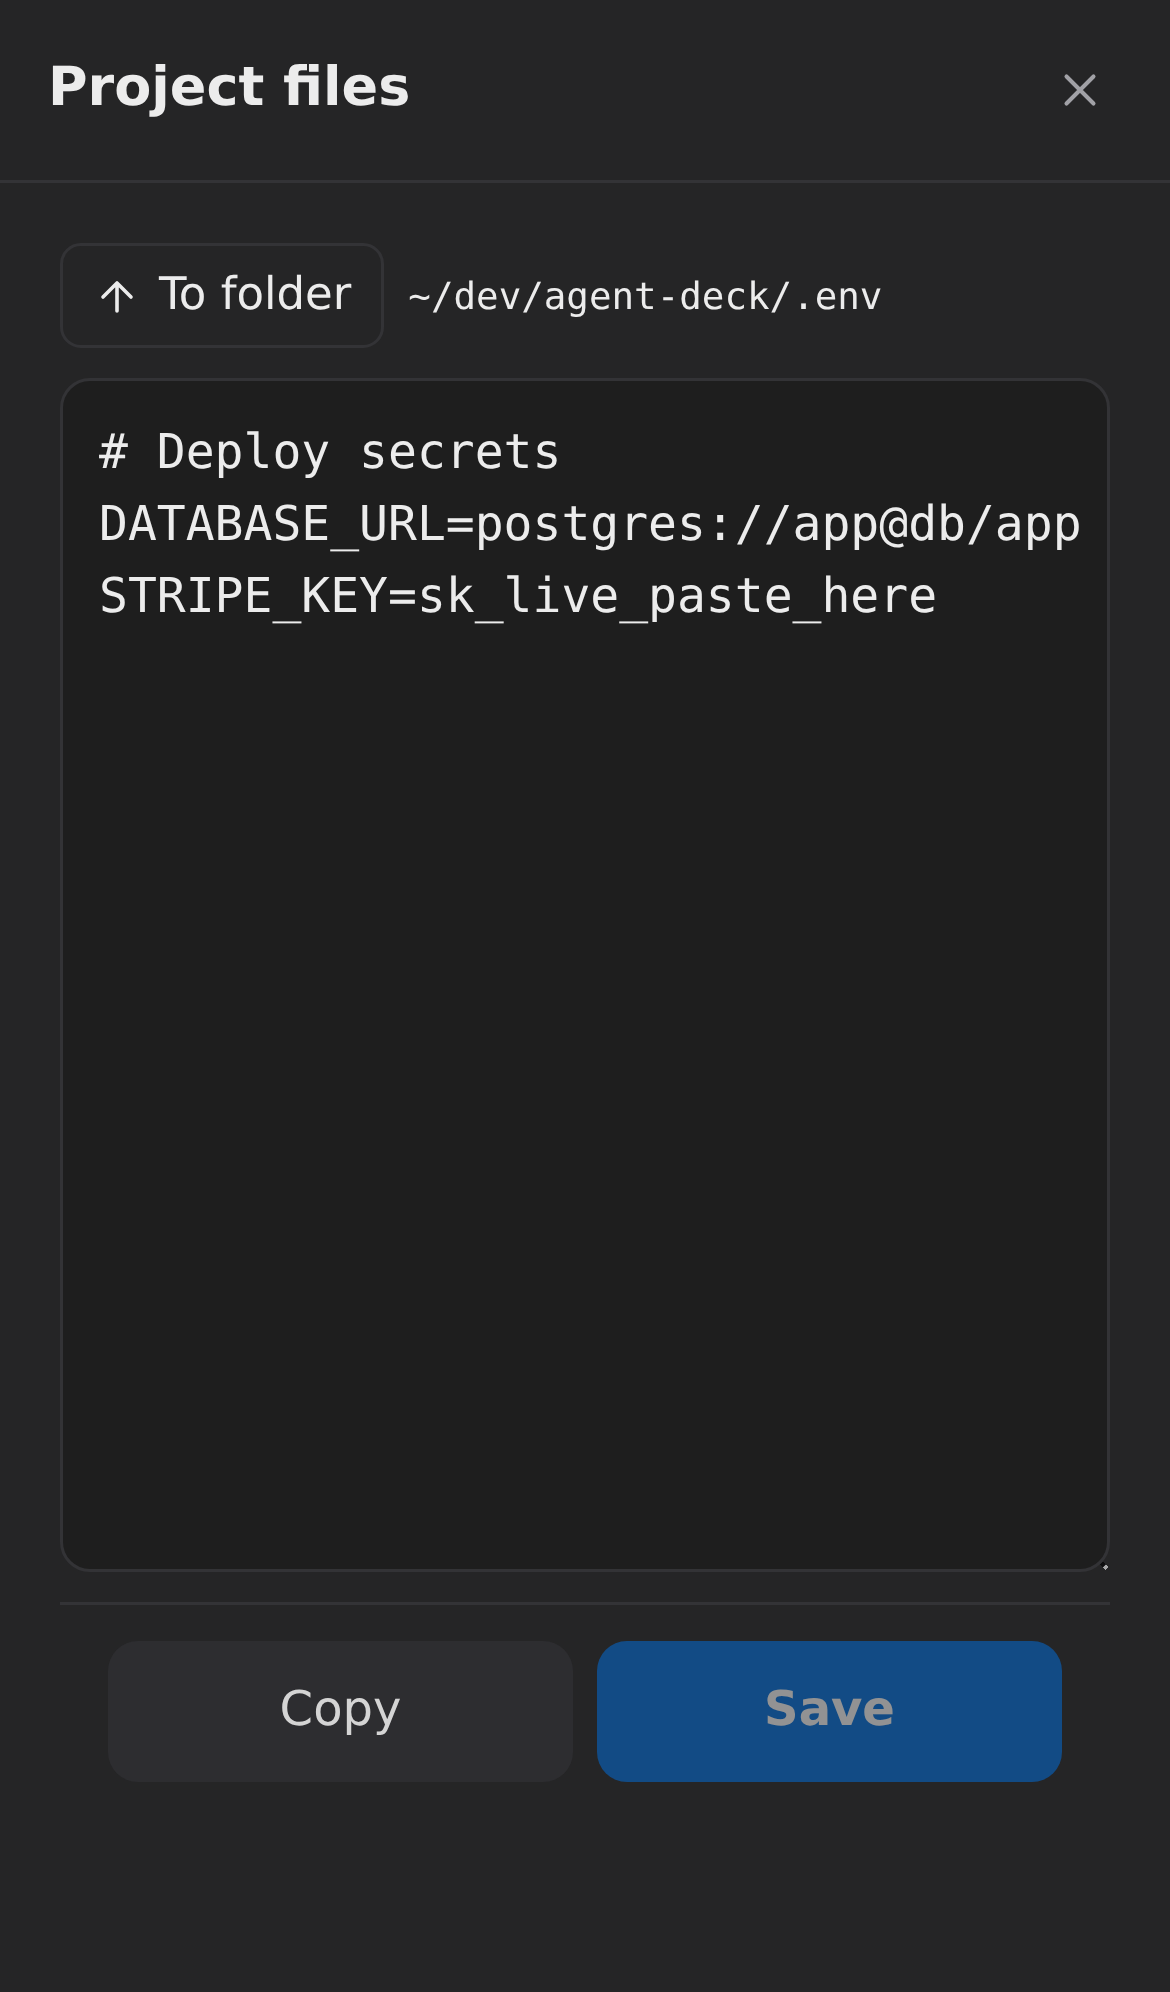
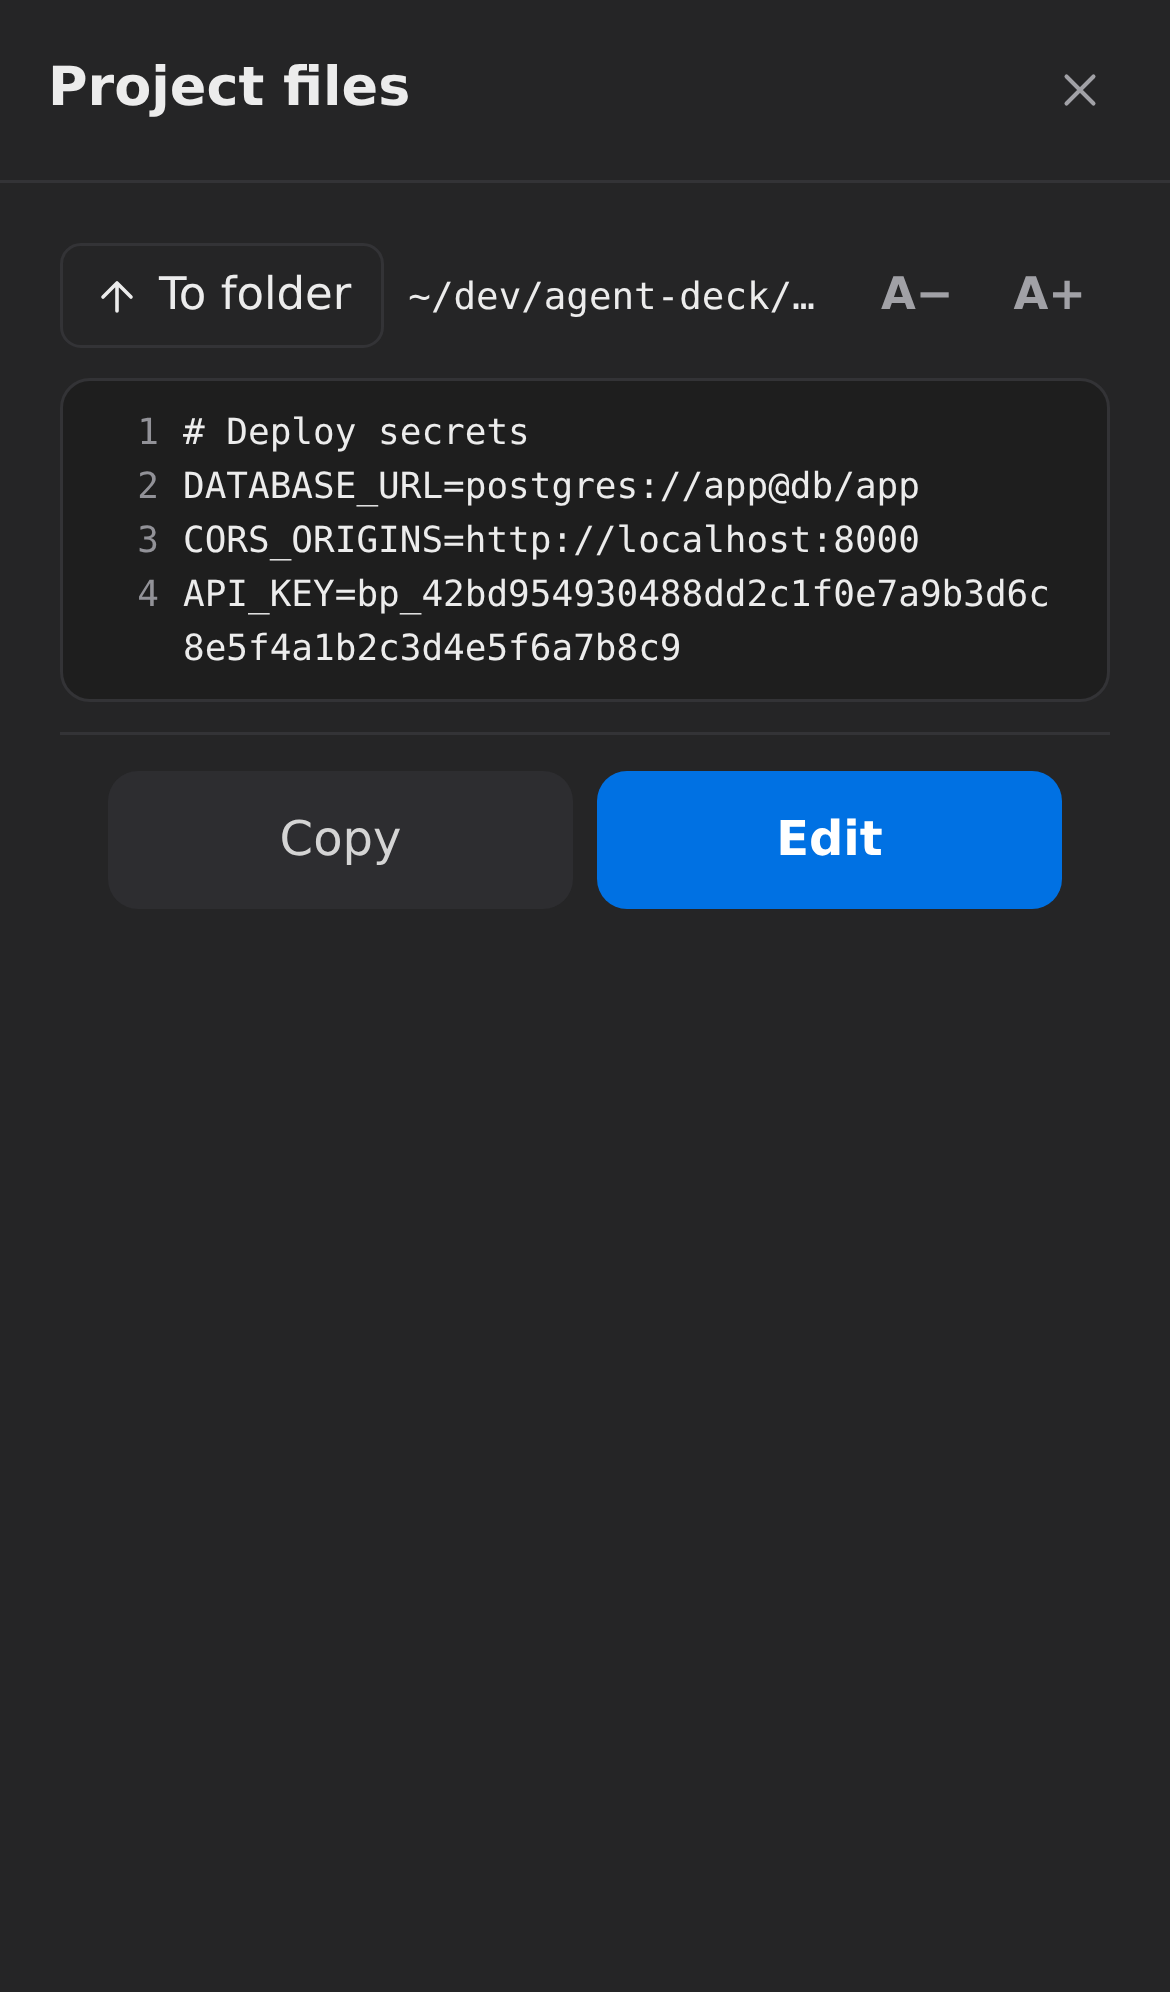
Open project files for reading with wrapped numbered lines and a separate edit step
Claude-Session: https://claude.ai/code/session_01WizKGTW24pfp1RfsJQRaht

diff --git a/panel/index.html b/panel/index.html
@@ -478,7 +478,12 @@ dialog::backdrop{background:rgba(0,0,0,.55)}
 .files-row.dir svg{color:var(--acc-text)}
 .files-size{flex:none;color:var(--mut);font-size:12px;font-variant-numeric:tabular-nums}
 .files-empty{margin:0;padding:12px;color:var(--mut)}
-.files-text{width:100%;min-height:min(60vh,520px);resize:vertical;padding:12px;border:1px solid var(--bd);border-radius:10px;background:var(--bg);color:var(--fg2);font:13px/1.5 var(--mono);outline:none;white-space:pre;overflow:auto}
+.files-text{width:100%;min-height:min(60vh,520px);resize:vertical;padding:12px;border:1px solid var(--bd);border-radius:10px;background:var(--bg);color:var(--fg2);font:var(--code-font,13px)/1.5 var(--mono);outline:none;white-space:pre-wrap;overflow-wrap:anywhere}
+.files-view{padding:8px 0;border:1px solid var(--bd);border-radius:10px;background:var(--bg);font:var(--code-font,13px)/1.5 var(--mono);-webkit-user-select:text;user-select:text}
+.files-view .fl{display:flex}
+.files-view .ln{flex:none;width:40px;padding:0 8px;text-align:right;color:var(--dim);-webkit-user-select:none;user-select:none}
+.files-view .code{flex:1;min-width:0;padding-right:12px;white-space:pre-wrap;overflow-wrap:anywhere;color:var(--fg2)}
+.files-path .git-font button{min-width:36px;padding:6px 8px;border-radius:var(--r-sm);color:var(--mut);font-weight:600}
 #inbox_dlg .hub-heading{border-bottom:1px solid var(--bd)}
 #inbox_list{display:grid;gap:18px;align-content:start}
 .inbox-item{display:grid;gap:8px}
@@ -541,7 +546,8 @@ dialog::backdrop{background:rgba(0,0,0,.55)}
 /* ---------- mobile (phones, including landscape) ----------
    Keep in sync with MOBILE_QUERY in app.js. */
 @media (max-width:760px),(pointer:coarse) and (max-height:500px){
-  .q-text textarea,.files-text,.files-new input{font-size:16px} /* Below 16px iOS zooms the page on focus. */
+  .q-text textarea,.files-new input{font-size:16px} /* Below 16px iOS zooms the page on focus. */
+  .files-text{font-size:max(16px,var(--code-font,16px))}
   .files-row{min-height:var(--tap)}
   html,body{position:fixed;inset:0;width:100%;height:100%}
   body{font-size:15px}
@@ -1871,9 +1877,14 @@ function renderFiles(){
   if(listing.truncated)list.append(el("p","files-empty",tr("Показаны первые 2000 элементов")));
   box.append(crumbs,create,list);
 }
+// Files open for reading: wrapped lines with numbers, selectable without the keyboard popping up and the
+// layout jumping. Editing is a separate step, and a new file starts in it.
 function renderEditor(box,listing){
   const file=files.file,name=file.path.split("/").pop();
-  const head=el("div","files-path",fileButton(tr("К папке"),"files-up",leaveFile,"arrow-up"),el("code","",homeRelative(file.path,listing.home)));
+  const head=el("div","files-path",fileButton(tr("К папке"),"files-up",leaveFile,"arrow-up"),el("code","",homeRelative(file.path,listing.home)),
+    el("span","git-font",fileButton("A−","",()=>codeFont(-1)),fileButton("A+","",()=>codeFont(1))));
+  applyCodeFont();
+  if(!file.isNew&&!file.editing)return renderReader(box,head,file);
   const area=el("textarea","files-text");area.value=file.content;area.spellcheck=false;
   area.setAttribute("autocapitalize","none");area.setAttribute("autocorrect","off");area.setAttribute("aria-label",name);
   const save=fileButton(tr("Сохранить"),"pri",saveFile);save.disabled=!filesDirty()&&!file.isNew;files.saveButton=save;
@@ -1883,6 +1894,19 @@ function renderEditor(box,listing){
     copyText(text);
   });
   box.append(head,area,el("div","acts",copy,save));
+}
+function renderReader(box,head,file){
+  const view=el("div","files-view");
+  file.content.split("\n").forEach((line,i,lines)=>{
+    if(i===lines.length-1&&!line&&lines.length>1)return;  // The newline that ends the file is not a line.
+    view.append(el("div","fl",el("span","ln",String(i+1)),el("span","code",line||" ")));
+  });
+  const copy=fileButton(tr("Копировать"),"",()=>{
+    const selected=String(getSelection()||"");
+    copyText(selected&&view.contains(getSelection().anchorNode)?selected:file.content);
+  });
+  const change=fileButton(tr("Изменить"),"pri",()=>{file.editing=true;renderFiles()});
+  box.append(head,view,el("div","acts",copy,change));
 }
 async function copyText(text){
   try{if(navigator.clipboard&&window.isSecureContext){await navigator.clipboard.writeText(text);toast(tr("Скопировано: {0} симв.",[text.length]),"success");return}}catch(e){}

diff --git a/frontend/files.js b/frontend/files.js
@@ -73,9 +73,14 @@ function renderFiles(){
   if(listing.truncated)list.append(el("p","files-empty",tr("Показаны первые 2000 элементов")));
   box.append(crumbs,create,list);
 }
+// Files open for reading: wrapped lines with numbers, selectable without the keyboard popping up and the
+// layout jumping. Editing is a separate step, and a new file starts in it.
 function renderEditor(box,listing){
   const file=files.file,name=file.path.split("/").pop();
-  const head=el("div","files-path",fileButton(tr("К папке"),"files-up",leaveFile,"arrow-up"),el("code","",homeRelative(file.path,listing.home)));
+  const head=el("div","files-path",fileButton(tr("К папке"),"files-up",leaveFile,"arrow-up"),el("code","",homeRelative(file.path,listing.home)),
+    el("span","git-font",fileButton("A−","",()=>codeFont(-1)),fileButton("A+","",()=>codeFont(1))));
+  applyCodeFont();
+  if(!file.isNew&&!file.editing)return renderReader(box,head,file);
   const area=el("textarea","files-text");area.value=file.content;area.spellcheck=false;
   area.setAttribute("autocapitalize","none");area.setAttribute("autocorrect","off");area.setAttribute("aria-label",name);
   const save=fileButton(tr("Сохранить"),"pri",saveFile);save.disabled=!filesDirty()&&!file.isNew;files.saveButton=save;
@@ -85,6 +90,19 @@ function renderEditor(box,listing){
     copyText(text);
   });
   box.append(head,area,el("div","acts",copy,save));
+}
+function renderReader(box,head,file){
+  const view=el("div","files-view");
+  file.content.split("\n").forEach((line,i,lines)=>{
+    if(i===lines.length-1&&!line&&lines.length>1)return;  // The newline that ends the file is not a line.
+    view.append(el("div","fl",el("span","ln",String(i+1)),el("span","code",line||" ")));
+  });
+  const copy=fileButton(tr("Копировать"),"",()=>{
+    const selected=String(getSelection()||"");
+    copyText(selected&&view.contains(getSelection().anchorNode)?selected:file.content);
+  });
+  const change=fileButton(tr("Изменить"),"pri",()=>{file.editing=true;renderFiles()});
+  box.append(head,view,el("div","acts",copy,change));
 }
 async function copyText(text){
   try{if(navigator.clipboard&&window.isSecureContext){await navigator.clipboard.writeText(text);toast(tr("Скопировано: {0} симв.",[text.length]),"success");return}}catch(e){}

diff --git a/frontend/style.css b/frontend/style.css
@@ -467,7 +467,12 @@ dialog::backdrop{background:rgba(0,0,0,.55)}
 .files-row.dir svg{color:var(--acc-text)}
 .files-size{flex:none;color:var(--mut);font-size:12px;font-variant-numeric:tabular-nums}
 .files-empty{margin:0;padding:12px;color:var(--mut)}
-.files-text{width:100%;min-height:min(60vh,520px);resize:vertical;padding:12px;border:1px solid var(--bd);border-radius:10px;background:var(--bg);color:var(--fg2);font:13px/1.5 var(--mono);outline:none;white-space:pre;overflow:auto}
+.files-text{width:100%;min-height:min(60vh,520px);resize:vertical;padding:12px;border:1px solid var(--bd);border-radius:10px;background:var(--bg);color:var(--fg2);font:var(--code-font,13px)/1.5 var(--mono);outline:none;white-space:pre-wrap;overflow-wrap:anywhere}
+.files-view{padding:8px 0;border:1px solid var(--bd);border-radius:10px;background:var(--bg);font:var(--code-font,13px)/1.5 var(--mono);-webkit-user-select:text;user-select:text}
+.files-view .fl{display:flex}
+.files-view .ln{flex:none;width:40px;padding:0 8px;text-align:right;color:var(--dim);-webkit-user-select:none;user-select:none}
+.files-view .code{flex:1;min-width:0;padding-right:12px;white-space:pre-wrap;overflow-wrap:anywhere;color:var(--fg2)}
+.files-path .git-font button{min-width:36px;padding:6px 8px;border-radius:var(--r-sm);color:var(--mut);font-weight:600}
 #inbox_dlg .hub-heading{border-bottom:1px solid var(--bd)}
 #inbox_list{display:grid;gap:18px;align-content:start}
 .inbox-item{display:grid;gap:8px}
@@ -530,7 +535,8 @@ dialog::backdrop{background:rgba(0,0,0,.55)}
 /* ---------- mobile (phones, including landscape) ----------
    Keep in sync with MOBILE_QUERY in app.js. */
 @media (max-width:760px),(pointer:coarse) and (max-height:500px){
-  .q-text textarea,.files-text,.files-new input{font-size:16px} /* Below 16px iOS zooms the page on focus. */
+  .q-text textarea,.files-new input{font-size:16px} /* Below 16px iOS zooms the page on focus. */
+  .files-text{font-size:max(16px,var(--code-font,16px))}
   .files-row{min-height:var(--tap)}
   html,body{position:fixed;inset:0;width:100%;height:100%}
   body{font-size:15px}

diff --git a/scripts/repo-screenshots.spec.js b/scripts/repo-screenshots.spec.js
@@ -121,12 +121,14 @@ test('phone files',async({app,page},info)=>{
   await page.route('**/api/files?*',json({path:'/home/dev/dev/agent-deck',home:'/home/dev',parent:'/home/dev/dev',entries:[
    {name:'frontend',dir:true,size:0,mtime:1},{name:'integrations',dir:true,size:0,mtime:1},{name:'panel',dir:true,size:0,mtime:1},
    {name:'.env',dir:false,size:142,mtime:1},{name:'README.md',dir:false,size:41210,mtime:1},{name:'install.sh',dir:false,size:16890,mtime:1}]}));
-  await page.route('**/api/file?*',json({path:'/home/dev/dev/agent-deck/.env',content:'# Deploy secrets\nDATABASE_URL=postgres://app@db/app\nSTRIPE_KEY=sk_live_paste_here\n',hash:'h',size:142}));
+  await page.route('**/api/file?*',json({path:'/home/dev/dev/agent-deck/.env',content:'# Deploy secrets\nDATABASE_URL=postgres://app@db/app\nCORS_ORIGINS=http://localhost:8000\nAPI_KEY=bp_42bd954930488dd2c1f0e7a9b3d6c8e5f4a1b2c3d4e5f6a7b8c9\n',hash:'h',size:142}));
  });
  await page.evaluate(()=>openFiles());await page.waitForTimeout(500);
  await page.screenshot({path:target('mobile-files')});
  await page.locator('.files-row:not(.dir)').first().click();await page.waitForTimeout(400);
  await page.screenshot({path:target('mobile-file')});
+ await page.locator('#files_body button',{hasText:'Edit'}).click();await page.waitForTimeout(300);
+ await page.evaluate(()=>document.activeElement?.blur());await page.screenshot({path:'/tmp/file-edit.png'});
 });
 
 test('phone history',async({app,page},info)=>{

diff --git a/tests/frontend/instance.test.js b/tests/frontend/instance.test.js
@@ -161,6 +161,10 @@ test('project files: browse, open .env, paste a secret and save it with the vers
   expect(doc.querySelector('.files-path code').textContent).toBe('~/projects/alpha');
   doc.querySelector('.files-row.dir').click();await settle();
   doc.querySelector('.files-row').click();await settle();
+  // Reading first: wrapped numbered lines and no editable field, so the keyboard stays down.
+  expect(doc.querySelector('.files-text')).toBeNull();
+  expect([...doc.querySelectorAll('.files-view .code')].map(n=>n.textContent)).toEqual(['TOKEN=']);
+  [...doc.querySelectorAll('#files_body button')].find(b=>b.textContent==='Изменить'||b.textContent==='Edit').click();await settle();
   const area=doc.querySelector('.files-text');
   expect(area.value).toBe('TOKEN=\n');
   area.value='TOKEN=pasted-secret\n';area.dispatchEvent(new window.Event('input'));

diff --git a/CHANGELOG.md b/CHANGELOG.md
@@ -2,6 +2,10 @@
 
 Versions follow [semver](https://semver.org). Install a version with `sudo ./update.sh vX.Y.Z` (older than the installed one: `sudo FORCE_DOWNGRADE=1 ./update.sh vX.Y.Z`).
 
+## 1.16.2 — 2026-10-06
+
+- Project files: a file opens for reading — wrapped lines with numbers, selectable with a long press without the keyboard popping up or the layout jumping; Copy takes the selection or the whole file. Edit switches to the editor, which also wraps lines; a new file starts in it. A− / A+ share the remembered code size with Change history (the editor never goes below 16 px on phones, so iOS does not zoom).
+
 ## 1.16.1 — 2026-10-06
 
 - Change history: diffs wrap long lines instead of running off the screen, all text files of a commit open expanded (binary files are marked "binary" instead of +0 −0), and A− / A+ change the code size, remembered in this browser.
